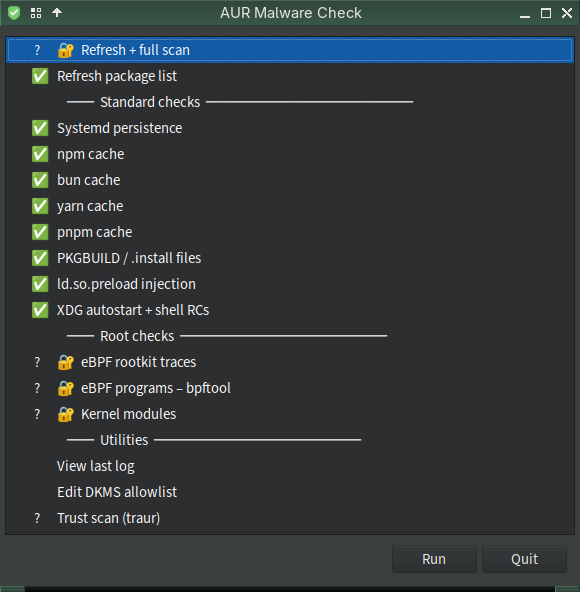
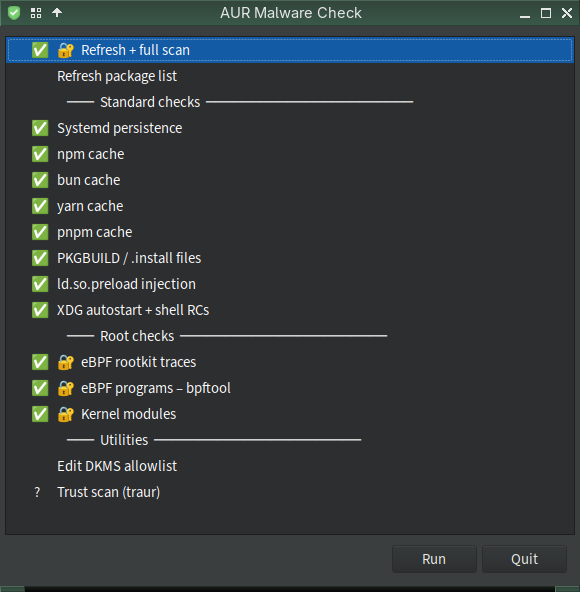
fix: GUI marks only the check that failed, not the whole list (#18)
* fix: GUI marks only the check that failed, not the whole list

A full scan returns one overall verdict; _propagate_full_scan stamped it
onto every check row, so a single INFECTED check (e.g. an unallowlisted
DKMS module) painted npm/bun/systemd/... all red — misleading, and exactly
the alert-fatigue trap a security UI should avoid.

It now parses each check's own "--- [N] ---" section in the scan output
and sets that row from its own result (WARNING/INFECTED → ❌,
Skipped/needs-root → ?, else ✅), falling back to the overall code only
if a section isn't found. The output file is now passed to the function
before it's removed.

Verified: against a sample full-scan output where only kmod flags
tuxedo-drivers, only the Kernel modules row goes ❌; all others ✅
(incl. correct [6]/[6b]/[6c] disambiguation and INFO-only bpftool → ✅).

* update image prview

---------

Changed region(s): [[0.0931, 0.7601, 0.3103, 0.8818], [0.031, 0.5777, 0.0931, 0.7297], [0.031, 0.0608, 0.0931, 0.152]]

diff --git a/CHANGELOG.md b/CHANGELOG.md
@@ -7,6 +7,9 @@
 - `developing.md` — coding conventions, `README.md` — use-case map
 - Bash scripts remain at 2.3.x for legacy use
 
+## 2.9.8 (2026-06-17) — personal fork
+- Fix: the GUI no longer marks **every** check ❌ when a full scan finds one problem. `_propagate_full_scan` used to stamp the single overall verdict onto all rows, so one `INFECTED` check (e.g. an unallowlisted DKMS module) lit up the whole list. It now parses each check's own `--- [N] ---` section in the scan output and sets that row from its own result (WARNING/INFECTED → ❌, Skipped/needs-root → ?, otherwise ✅) — a finding points at the check that found it.
+
 ## 2.9.7 (2026-06-17) — personal fork
 - Change: automated scanning is split by context so neither half false-positives. The **root system** timer now runs only the system-level checks (`--check-systemd/--check-ebpf/--check-bpftool/--check-ldso/--check-kmod` + the always-on package/log checks); a new **user** timer (`aur-malware-check-user.{service,timer}`) runs the user-level checks (`--check-npm-cache/--check-bun-cache/--check-yarn-cache/--check-pnpm-cache/--check-pkgbuild/--check-autostart`) as your user, so they scan your real `~/.cache`/`~/.config` instead of `/root`. Fixes the root scan flagging root's own `/root/.config/autostart` session relics as a false `RESULT: INFECTED`. The user scan notifies itself (runs in your session); the root scan still uses the path-watched notifier. `install.sh --system` installs and enables both; `systemd.md` updated.
 - Fix: the DKMS allowlist loader used `[[ -f ]]` and aborted the whole scan (`Permission denied`, exit 1, under `set -e`) when `/etc/aur-malware-check/dkms_allowlist.conf` existed but was not readable. It now tests `[[ -r ]]` and skips unreadable files, and `install.sh --system` installs the system allowlist mode `644` (the user-level scan reads it too, even if your `~/.config` copy is `600`).